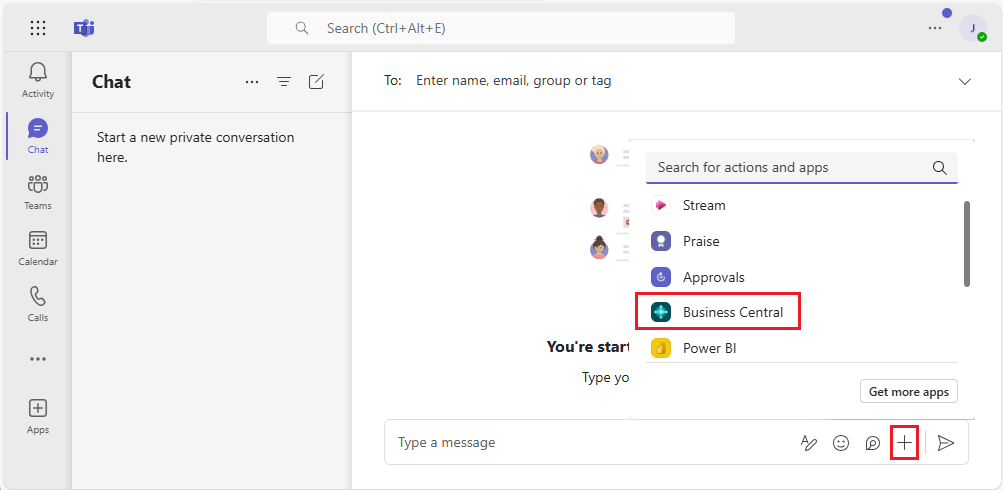
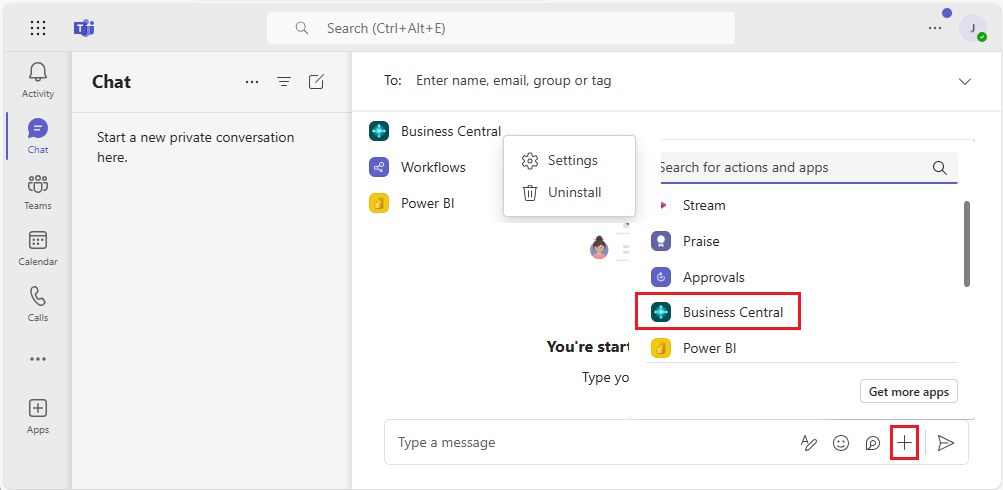
updtes

diff --git a/business-central/admin-teams-troubleshooting.md b/business-central/admin-teams-troubleshooting.md
@@ -5,7 +5,7 @@ author: jswymer
 ms.topic: get-started
 ms.devlang: al
 ms.search.keywords: Teams, MS Teams, Microsoft Teams, Skype, Link, Microsoft 365, collaborate, collaboration, teamwork, troubleshooting, errors
-ms.date: 09/19/2023
+ms.date: 08/14/2024
 ms.author: jswymer
 ms.service: dynamics-365-business-central
 ms.reviewer: jswymer
@@ -31,9 +31,6 @@ You must first sign in to reach your settings. To sign into the app, either past
 
 After you change the company on the **Settings** page, you might notice that the command box drop-down indicates you're still searching the previous company. This issue happens when you open the **Settings** page directly from the command box. In this case, the company was successfully changed, and you'll in fact search the company you switched to. The problem is that the command box drop-down just hasn't been updated yet. Close or unpin [!INCLUDE [prod_short.md](includes/prod_short.md)] from the command box, and then open the app again to ensure that the drop-down accurately reflects the company you're searching for. 
 
-
-<!--When you change company from the **Settings** page that you reach from the command box, returning to the command box drop-down continues to show the previous company even though the company was successfully changed. For the drop-down accurately reflect the company you'll search in, you must close or unpin [!INCLUDE [prod_short.md](includes/prod_short.md)] from the command box and then find it again.-->
-
 ## "Something went wrong" error when searching for contacts
 
 You may experience this error when you search in a company that hasn't been initialized or is in an unresponsive state. For example, you can't search in a new trial company that hasn't yet accepted the terms of use. To resolve this issue, try to sign in to the [!INCLUDE [prod_short.md](includes/prod_short.md)] Web client, and act on or dismiss any initial dialogs that appear.
@@ -48,10 +45,10 @@ If you're experiencing this problem, here are a few things to try:
 
 1. First, make sure that the [!INCLUDE [prod_short](includes/prod_short.md)] app for Teams is installed.
 
-    To check, sign in to the Teams desktop app or Teams in the browser. Then, on the left side, select **Apps**, and search for **[!INCLUDE [prod_short](includes/prod_short.md)]**. When you find the **[!INCLUDE [prod_short](includes/prod_short.md)]** app, select it to open the app details page. If the **Add** button is shown, then the [!INCLUDE [prod_short](includes/prod_short.md)] app isn't installed. For more information about how to install the app, see [Install the [!INCLUDE [prod_short](includes/prod_short.md)] App for Microsoft Teams](across-install-app-for-teams.md).
+    To check, sign in to the Teams desktop app or Teams in the browser. Then, on the left side, select **Apps**, and search for **[!INCLUDE [prod_short](includes/prod_short.md)]**. When you find the **[!INCLUDE [prod_short](includes/prod_short.md)]** app, select it to open the app details page. If the **Add** button is shown, then the [!INCLUDE [prod_short](includes/prod_short.md)] app isn't installed. Learn more in [Install the [!INCLUDE [prod_short](includes/prod_short.md)] App for Microsoft Teams](across-install-app-for-teams.md).
 
     > [!NOTE]
-    > Guest users can't immediately install apps. For more information about guest users, see our [FAQ about collaborating with guests](teams-faq.md?tabs=collaborating#language). 
+    > Guest users can't immediately install apps. Learn more in [FAQ about collaborating with guests](teams-faq.md?tabs=collaborating#language). 
 
 2. Next, check that you've signed in with the correct identity.
 
@@ -59,7 +56,7 @@ If you're experiencing this problem, here are a few things to try:
 
 3. Make sure codeunit 2718 **Page Summary Provider** is published as a web service.
 
-    Teams connects to [!INCLUDE [prod_short](includes/prod_short.md)] using an endpoint to this codeunit on the [!INCLUDE [prod_short](includes/prod_short.md)] service. For information about publishing web services, see [Publish a Web Service](across-how-publish-web-service.md).
+    Teams connects to [!INCLUDE [prod_short](includes/prod_short.md)] using an endpoint to this codeunit on the [!INCLUDE [prod_short](includes/prod_short.md)] service. Learn more in [Publish a Web Service](across-how-publish-web-service.md).
 
 4. Your organization may also restrict you from pasting links that expand into cards. Contact your administrator to understand the Teams organizational policies that may apply to you.
 
@@ -67,7 +64,7 @@ If you're experiencing this problem, here are a few things to try:
 
 A link won't expand into a card in the following situations:
 
-- The link targets a page that (at a technical level) isn't connected to a source table in [!INCLUDE [prod_short](includes/prod_short.md)]. You can check whether a page has a source table by using the page inspection pane in the Web client in [!INCLUDE [prod_short](includes/prod_short.md)]. For more information about page inspection, see [Inspecting Pages](across-inspect-page.md).
+- The link targets a page that (at a technical level) isn't connected to a source table in [!INCLUDE [prod_short](includes/prod_short.md)]. You can check whether a page has a source table by using the page inspection pane in the Web client in [!INCLUDE [prod_short](includes/prod_short.md)]. Learn more about page inspection Learn more in [Inspecting Pages](across-inspect-page.md).
 - Teams doesn't support link previews in some of its features. For example, when you pop out a chat, or you're a guest to another organization.
 - Network issues cause Teams to silently abandon trying to display the card after 15 seconds, for example.
 - Teams may not expand the link if you've already pasted a link into the same message compose box and deleted the card.
@@ -83,7 +80,7 @@ For example:
 
 `https://businesscentral.dynamics.com/?environmentname=Production&company=CRONUS%20USA%2C%20Inc.&page=21&dc=0&bookmark=21%3bEgAAAAJ7BTEAMAAwADAAMA%3d%3d`
 
-For technical details about [!INCLUDE [prod_short](includes/prod_short.md)] URLs, see [Web Client URL](/dynamics365/business-central/dev-itpro/developer/devenv-web-client-urls) in the [!INCLUDE [prod_short](includes/prod_short.md)] Developer and IT Pro Help.
+Learn more about [!INCLUDE [prod_short](includes/prod_short.md)] URLs in [Web Client URL](/dynamics365/business-central/dev-itpro/developer/devenv-web-client-urls) in the [!INCLUDE [prod_short](includes/prod_short.md)] Developer and IT Pro Help.
 
 ## The details window opens, but shows an error before details are shown
 
@@ -93,15 +90,15 @@ This problem can be caused by a couple of things: lack of permissions in [!INCLU
 
     To view details for a card, [!INCLUDE [prod_short](includes/prod_short.md)] checks your license and permissions to view that specific record and page in the specific company and environment. If you aren't authorized for any of these things, standard [!INCLUDE [prod_short](includes/prod_short.md)] error messages about permissions appear in the details window. 
 
-    For more information about permissions, see [Assign Permissions to Users and Groups](ui-define-granular-permissions.md)
+    Learn more in [Assign Permissions to Users and Groups](ui-define-granular-permissions.md).
 
 2. Check your browser settings if using Teams in the browser.
 
-    - Your browser's pop-up blocker must be either turned off or set to allow pop-ups from the *businesscentral.dynamics.com* or *bc.dynamics.com* domains. For information about allowing pop-ups for [!INCLUDE [prod_short](includes/prod_short.md)], see [Setting Up Your Browser](across-browser-settings.md#popup).
+    - Your browser's pop-up blocker must be either turned off or set to allow pop-ups from the *businesscentral.dynamics.com* or *bc.dynamics.com* domains. Learn more in about allowing pop-ups for [!INCLUDE [prod_short](includes/prod_short.md)] in [Setting Up Your Browser](across-browser-settings.md#popup).
     - Your browser must have access to local browser storage for cookies and preferences as you work.
     - Avoid using guest or private browsing unless necessary, because they discard or block certain content in some browsers.
 
-    For more information about minimum browser requirements, see [Minimum Requirements for Using [!INCLUDE [prod_short](includes/prod_short.md)]](product-requirements.md#browsers) 
+   Learn more about minimum browser requirements in [Minimum Requirements for Using [!INCLUDE [prod_short](includes/prod_short.md)]](product-requirements.md#browsers).
 
 ## I'm having problems with the camera or location in Teams
 
@@ -111,9 +108,9 @@ When using [!INCLUDE [prod_short](includes/prod_short.md)] features in the detai
 
 - For Teams for iOS or Android, make sure that your device settings allow access to camera and location for the Teams mobile app. 
 
-For help about changing these settings, see [My camera isn't working in Teams](https://support.microsoft.com/office/my-camera-isn-t-working-in-teams-9581983b-c6f9-40e3-b0d8-122857972ade?ns=msftteams&version=16&ui=en-us&rs=en-us&ad=us) on Microsoft Support.
+Learn more about changing these settings at [My camera isn't working in Teams](https://support.microsoft.com/office/my-camera-isn-t-working-in-teams-9581983b-c6f9-40e3-b0d8-122857972ade?ns=msftteams&version=16&ui=en-us&rs=en-us&ad=us) on Microsoft Support.
 
-The [!INCLUDE [prod_short](includes/prod_short.md)] app doesn't support location in the Teams desktop app. For more information about location, see the [Teams FAQ](teams-faq.md#location).
+The [!INCLUDE [prod_short](includes/prod_short.md)] app doesn't support location in the Teams desktop app. Learn more in [Teams FAQ](teams-faq.md#location).
 
 Some browsers, such as the new Microsoft Edge, allow you to choose which device camera to use when your device supports multiple cameras. 
 
@@ -121,11 +118,11 @@ Some browsers, such as the new Microsoft Edge, allow you to choose which device 
 
 For cards and card details to display consistently in the same language in Teams, the language of your Teams client and the language you use in [!INCLUDE [prod_short](includes/prod_short.md)] Web client must match.
 
-- To learn about changing the language in Teams, see [Change settings in Teams](https://support.microsoft.com/en-us/office/change-settings-in-teams-b506e8f1-1a96-4cf1-8c6b-b6ed4f424bc7) on Microsoft Support. 
+- Learn more about changing the language in Teams in [Change settings in Teams](https://support.microsoft.com/en-us/office/change-settings-in-teams-b506e8f1-1a96-4cf1-8c6b-b6ed4f424bc7) on Microsoft Support. 
 
-- To learn about changing the language in [!INCLUDE [prod_short](includes/prod_short.md)], see [Change Basic Settings - Language](ui-change-basic-settings.md#language).
+- Learn more about changing the language in [!INCLUDE [prod_short](includes/prod_short.md)] [Change Basic Settings - Language](ui-change-basic-settings.md#language).
 
-For more information on how languages work between Teams and [!INCLUDE [prod_short](includes/prod_short.md)], see [Teams FAQ](teams-faq.md#language).
+Learn more about how languages work between Teams and [!INCLUDE [prod_short](includes/prod_short.md)] in [Teams FAQ](teams-faq.md#language).
 
 ## I edited a field in the details window, but my change wasn't saved
 
@@ -173,8 +170,7 @@ This problem is because you don’t have the BC app for Teams installed. Only th
 
 This problem is likely because you shared a list view that is a personal view. In this case, work with your administrator to create either role-specific list views that covers the different roles in the channel/chat, or create this view for the whole organization so that everyone can get a consistent view.
 
-
-## See also
+## Related information
 
 [[!INCLUDE [prod_short](includes/prod_short.md)] and Microsoft Teams Integration Overview](across-teams-overview.md)  
 [Install the [!INCLUDE [prod_short](includes/prod_short.md)] App for Microsoft Teams](across-install-app-for-teams.md)  

diff --git a/business-central/admin-teams-integration.md b/business-central/admin-teams-integration.md
@@ -4,7 +4,7 @@ description: Manage Business Central integration with Microsoft Teams.
 author: jswymer
 ms.topic: overview
 ms.search.keywords: Teams, MS Teams, Microsoft Teams, Skype, Link, Microsoft 365, collaborate, collaboration, teamwork
-ms.date: 02/03/2023
+ms.date: 0814/2024
 ms.author: jswymer
 ms.reviewer: jswymer
 ms.custom: bap-template
@@ -40,13 +40,13 @@ This section describes the minimum requirements for the [!INCLUDE [prod_short](i
 
 - Allow URL previews
 
-    **Allow URL previews** policy setting must be turned on. Otherwise, a card can't be generated for [!INCLUDE [prod_short](includes/prod_short.md)] links pasted into a Teams conversation. For more information about this setting, see [Manage messaging policies in Teams](/microsoftteams/messaging-policies-in-teams).
+    **Allow URL previews** policy setting must be turned on. Otherwise, a card can't be generated for [!INCLUDE [prod_short](includes/prod_short.md)] links pasted into a Teams conversation. Learn more about this setting in [Manage messaging policies in Teams](/microsoftteams/messaging-policies-in-teams).
 
 ### Managing the [!INCLUDE [prod_short](includes/prod_short.md)] app (optional)
 
 As a Teams administrator, you can manage all apps for your organization, including the [!INCLUDE [prod_short](includes/prod_short.md)] app. You can approve or install the [!INCLUDE [prod_short](includes/prod_short.md)] app for your organization, block user's from installing the app, and more.
 
-For more information, see the following articles in the Microsoft Teams documentation:
+Learn more in the Microsoft Teams documentation at:
 
 - [Manage your apps in the Microsoft Teams admin center](/MicrosoftTeams/manage-apps)
 - [Manage app setup policies in Microsoft Teams](/microsoftteams/teams-app-setup-policies)
@@ -61,7 +61,7 @@ For more information, see the following articles in the Microsoft Teams document
 
 - Codeunit **2718 Page Summary Provider** is published as a web service:
 
-    This codeunit is published as a web service by default. The codeunit is part of the [!INCLUDE [prod_short](includes/prod_short.md)] system application. It's used to get the field data for a [!INCLUDE [prod_short](includes/prod_short.md)] page added to a Teams conversation. For information about publishing web services, see [Publish a Web Service](across-how-publish-web-service.md).
+    This codeunit is published as a web service by default. The codeunit is part of the [!INCLUDE [prod_short](includes/prod_short.md)] system application. It's used to get the field data for a [!INCLUDE [prod_short](includes/prod_short.md)] page added to a Teams conversation. Learn more about publishing web services in [Publish a Web Service](across-how-publish-web-service.md).
 
 - <a name="permissions"></a>User permissions:
 
@@ -73,7 +73,7 @@ For more information, see the following articles in the Microsoft Teams document
     - To view more details for a card or open the record in [!INCLUDE [prod_short](includes/prod_short.md)], users must have read permission on the page and its data.
     - To change data, user's need modify permissions.
     
-    For information about permissions, see [Assign Permissions to Users and Groups](ui-define-granular-permissions.md).
+    Learn more in [Assign Permissions to Users and Groups](ui-define-granular-permissions.md).
 
 ## Installing the Business Central app by using Centralized Deployment
 
@@ -93,7 +93,7 @@ The Microsoft Teams admin center is where you configure Teams app setup policies
        Business Central should now appear under **Installed apps** for the policy.
     5. Configure more settings as needed, then choose **Save**.
 
-    For more information about setup policies in Teams, see [Manage app setup policies in Microsoft Teams](/MicrosoftTeams/teams-app-setup-policies) in the Teams documentation.
+    Learn more in [Manage app setup policies in Microsoft Teams](/MicrosoftTeams/teams-app-setup-policies) in the Teams documentation.
 4. Go back to **Teams App Centralized Deployment** in Business Central and select **Done**.
 
 > [!IMPORTANT]
@@ -107,8 +107,8 @@ Microsoft Teams provides extensive controls for compliance and management of sen
 
 After a card is sent to a chat, the card and the fields shown on the card are copied to Teams. This information is subject to the Teams policies for your organization, such as data retention policies. When displaying card details, none of the data in the details window is stored in Teams. The data remains stored in [!INCLUDE [prod_short](includes/prod_short.md)] and will only be retrieved by Teams when the user chooses to view the details. 
 
-- To learn more about where Teams stores that data, see [Location of data in Microsoft Teams](/microsoftteams/location-of-data-in-teams).
-- To learn more about retention policies in Teams, see [Retention policies in Microsoft Teams](/microsoftteams/retention-policies).
+- Learn more about where Teams stores that data at [Location of data in Microsoft Teams](/microsoftteams/location-of-data-in-teams).
+- Learn more about retention policies in Teams at [Retention policies in Microsoft Teams](/microsoftteams/retention-policies).
 
 ### Restricting sharing of cards 
 
@@ -116,15 +116,15 @@ You prevent specific users or groups from sending cards to chats or channels by 
 
 You can also use information barriers to prevent individuals or groups from communicating with each other. To learn more, see [Information barriers in Microsoft Teams](/microsoftteams/information-barriers-in-teams).
 
-Data loss prevention features in the Microsoft 365 Security & Compliance Center can't be applied specifically to cards. But they can be applied to the chat messages that contain the cards. <!-- To track upcoming advanced features that include enabling DLP for cards, see [https://www.microsoft.com/en-us/microsoft-365/roadmap?featureid=67093](https://www.microsoft.com/en-us/microsoft-365/roadmap?featureid=67093).-->
+Data loss prevention features in the Microsoft 365 Security & Compliance Center can't be applied specifically to cards. But they can be applied to the chat messages that contain the cards.
 
 ### Responding to data requests
 
-You allow team members and team owners to delete messages that contain sensitive cards by setting up messaging policies, like: **Owners can delete sent messages** and **Users can delete sent messages**. For more information, see [Manage messaging policies in Teams](/microsoftteams/messaging-policies-in-teams).
+You allow team members and team owners to delete messages that contain sensitive cards by setting up messaging policies, like: **Owners can delete sent messages** and **Users can delete sent messages**. Learn more at [Manage messaging policies in Teams](/microsoftteams/messaging-policies-in-teams).
 
 Content search and eDiscovery compliance features in the Microsoft 365 Security & Compliance Center can also be applied to cards.
 
-Because card data in Teams is a copy of data in [!INCLUDE [prod_short](includes/prod_short.md)], you can also use [!INCLUDE [prod_short](includes/prod_short.md)] features to export a customer’s data if requested. For more information about privacy in [!INCLUDE [prod_short](includes/prod_short.md)], see [Privacy FAQ for Business Central Customers](/dynamics365/business-central/dev-itpro/security/privacyfaq).
+Because card data in Teams is a copy of data in [!INCLUDE [prod_short](includes/prod_short.md)], you can also use [!INCLUDE [prod_short](includes/prod_short.md)] features to export a customer’s data if requested. Learn more  about privacy in [!INCLUDE [prod_short](includes/prod_short.md)] in [Privacy FAQ for Business Central Customers](/dynamics365/business-central/dev-itpro/security/privacyfaq).
 
 ## Show or hide record data on cards
 
@@ -140,12 +140,12 @@ You configure the setting per environment. So when you turn the record summary o
 
    > [!TIP]
    > To switch the environment, select <kbd>Ctrl</kbd>+<kbd>O</kbd>.
-2. Choose the ![Magnifying glass that opens the Tell Me feature.](media/ui-search/search_small.png "Tell me what you want to do") icon, enter **Card Settings**, and then choose the related link. <!--Or, select [here](https://businesscentral.dynamics.com/?page=1833) to open the page directly.-->
+2. Choose the ![Magnifying glass that opens the Tell Me feature.](media/ui-search/search_small.png "Tell me what you want to do") icon, enter **Card Settings**, and then choose the related link.
 3. Read the information on the **Card Settings**, then choose **Next** when ready.
 4. On the **Data Visibility** page, turn on the **Show record summary** switch to display data on the cards or off to hide the data.
 5. Select **Next** and follow the instructions to complete the setup guide.
 
-## See Also
+## Related information
 
 [[!INCLUDE [prod_short](includes/prod_short.md)] and Microsoft Teams Integration Overview](across-teams-overview.md)  
 [Install the [!INCLUDE [prod_short](includes/prod_short.md)] App for Microsoft Teams](across-install-app-for-teams.md)  

diff --git a/business-central/across-teams-overview.md b/business-central/across-teams-overview.md
@@ -7,7 +7,7 @@ ms.reviewer: jswymer
 ms.service: dynamics-365-business-central
 ms.topic: overview
 ms.search.keywords: Teams, MS Teams, Microsoft Teams, Skype, Link, Microsoft 365, collaborate, collaboration, teamwork
-ms.date: 09/22/2022
+ms.date: 08/14/2024
 ms.custom: bap-template
 ---
 
@@ -33,7 +33,7 @@ You can also share contact details in a conversation. From there, participants h
 
  [![Look up Business Central contacts from Teams compose box.](media/teams-contacts-2.png)](media/teams-contacts-2.png#lightbox)
 
-For more information, see [Searching for Contacts from Microsoft Teams](across-search-contacts-teams.md).
+Learn more in [Searching for Contacts from Microsoft Teams](across-search-contacts-teams.md).
 
 ### Share records in conversations
 
@@ -43,7 +43,7 @@ Copy a link to any Business Central record and paste it into a Teams conversatio
 
 Once in the conversation, you and coworkers can view more details about the record, edit data, and take action - without leaving Teams.
 
-For more information, see [Share Records in Microsoft Teams](across-working-with-teams.md).
+Learn more in [Share Records in Microsoft Teams](across-working-with-teams.md).
 
 ### Share links from pages in Business Central to Teams
 
@@ -53,7 +53,7 @@ Directly from most collection and details pages in Business Central, you can use
 
 <!--![!The Share menu displayed on a card.](media/teams-share-link.png "The Share menu displayed on a card.")-->
 
-For more information, see [Share Records and Page Links in Microsoft Teams](across-working-with-teams.md#share-link).
+Learn more in [Share Records and Page Links in Microsoft Teams](across-working-with-teams.md#share-link).
 
 ### Add a Business Central tab to Teams channel or chat
 
@@ -61,7 +61,7 @@ With the Business Central app for Teams installed, you can add a tab in a channe
 
 ![Tabs in Teams](media/teams-tab-border-2.png)
 
-For more information, see [Add a Business Central tab in Teams](across-teams-tab.md).
+Learn more in [Add a Business Central tab in Teams](across-teams-tab.md).
 
 ## Get Started
 
@@ -70,13 +70,13 @@ For more information, see [Add a Business Central tab in Teams](across-teams-tab
     If you’re not sure whether you have an account, or if you don’t know your credentials for signing in, contact your company administrator to help you get started.
 
     > [!TIP]
-    > If your organization doesn't have a [!INCLUDE [prod_short](includes/prod_short.md)] subscription, you can sign up for a free trial. For more information, see [Sign up for a free Dynamics 365 Business Central trial](trial-signup.md).
+    > If your organization doesn't have a [!INCLUDE [prod_short](includes/prod_short.md)] subscription, you can sign up for a free trial. Learn more at [Sign up for a free Dynamics 365 Business Central trial](trial-signup.md).
 
 2. As an administrator, see [Managing Microsoft Teams Integration with Business Central](admin-teams-integration.md) for information about getting users set up to work with [!INCLUDE [prod_short](includes/prod_short.md)] and Teams.
 3. Install [!INCLUDE [prod_short](includes/prod_short.md)] app in Teams. See [Install the [!INCLUDE [prod_short](includes/prod_short.md)] App for Microsoft Teams](across-install-app-for-teams.md).
-4. Once the app is installed, you're ready to go. See [Searching for Customers, Vendors, and Other Contacts from Microsoft Teams](across-search-contacts-teams.md) and [Share Records in Microsoft Teams](across-working-with-teams.md).
+4. Once the app is installed, you're ready to go. Learn more in [Searching for Customers, Vendors, and Other Contacts from Microsoft Teams](across-search-contacts-teams.md) and [Share Records in Microsoft Teams](across-working-with-teams.md).
 
-## See Also
+## Related information
 
 [Teams FAQ](teams-faq.md)  
 [Troubleshooting Teams](admin-teams-troubleshooting.md)  

diff --git a/business-central/across-search-contacts-teams.md b/business-central/across-search-contacts-teams.md
@@ -24,7 +24,7 @@ ms.reviewer: jswymer
 ## Prerequisites
 
 - You have access to Microsoft Teams.
-- You've installed the [!INCLUDE [prod_short](includes/prod_short.md)] app in Teams. For more information, see [Install the [!INCLUDE [prod_short](includes/prod_short.md)] App for Microsoft Teams](across-install-app-for-teams.md)
+- You've installed the [!INCLUDE [prod_short](includes/prod_short.md)] app in Teams. Learn more in [Install the [!INCLUDE [prod_short](includes/prod_short.md)] App for Microsoft Teams](across-install-app-for-teams.md)
 - You've got a [!INCLUDE [prod_short](includes/prod_short.md)] account with access to contacts in at least one company.
 
 > [!NOTE]
@@ -49,7 +49,7 @@ The command box is at the top of every screen in Teams. It lets you search, take
 
 4. If you want to add the contact card into a conversation, go to the upper right corner of the card, select **... (More options)** > **Copy**. Then, paste the copy in the message compose box of a conversation.  
 
-Learn more about the Teams command box in [Teams - Use the command box](https://support.microsoft.com/en-us/office/use-the-command-box-13c4e429-7324-4886-b377-5dbed539193b).
+Learn more about the Teams command box at [Teams - Use the command box](https://support.microsoft.com/en-us/office/use-the-command-box-13c4e429-7324-4886-b377-5dbed539193b).
 
 ## Look up contacts from the message compose box
 
@@ -77,12 +77,12 @@ The contact card in Teams gives you a quick overview of the customer, vendor, or
 
 The **Details** button opens a window within Teams that displays more information about the contact, but not as much as you'd see in [!INCLUDE [prod_short](includes/prod_short.md)]. To see all the information about a contact in [!INCLUDE [prod_short](includes/prod_short.md)], select **Pop-out**.
 
-The contact card works just like cards for records, like items, customers, or sales orders. For more information about cards, see [View card details](across-working-with-teams.md#view-card-details).
+The contact card works just like cards for records, like items, customers, or sales orders. Learn more in [View card details](across-working-with-teams.md#view-card-details).
 
 > [!NOTE]
-> All participants in a Teams conversation will be able to view cards for Business Central contact that you submit to a conversation. But to view more details about records, by using the **Details** or **Pop out** buttons on a card, they'll need access to [!INCLUDE [prod_short](includes/prod_short.md)]. For more information, see [Managing Microsoft Teams Integration](admin-teams-integration.md#minimum-requirements-1).
+> All participants in a Teams conversation will be able to view cards for Business Central contact that you submit to a conversation. But to view more details about records, by using the **Details** or **Pop out** buttons on a card, they'll need access to [!INCLUDE [prod_short](includes/prod_short.md)]. Learn more in [Managing Microsoft Teams Integration](admin-teams-integration.md#minimum-requirements-1).
 
-## See also
+## Related information
 
 [Business Central and Microsoft Teams Integration Overview](across-teams-overview.md)  
 [Install the [!INCLUDE [prod_short](includes/prod_short.md)] App for Microsoft Teams](across-install-app-for-teams.md)  

diff --git a/business-central/across-teams-tab.md b/business-central/across-teams-tab.md
@@ -34,12 +34,12 @@ To add a [!INCLUDE [prod_short](includes/prod_short.md)] tab, the following requ
 
 - You have access to Microsoft Teams.
 - You have a [!INCLUDE [prod_short](includes/prod_short.md)] license.
-- You've installed the [!INCLUDE [prod_short](includes/prod_short.md)] app in Teams. For more information, see [Install the [!INCLUDE [prod_short](includes/prod_short.md)] App for Microsoft Teams](across-install-app-for-teams.md).
+- You've installed the [!INCLUDE [prod_short](includes/prod_short.md)] app in Teams. Learn more in [Install the [!INCLUDE [prod_short](includes/prod_short.md)] App for Microsoft Teams](across-install-app-for-teams.md).
 
 To view [!INCLUDE [prod_short](includes/prod_short.md)] tab that was added by another participant in the channel or chat, the following requirements must be met:
 
 - You have access to Microsoft Teams.
-- You have a [!INCLUDE [prod_short](includes/prod_short.md)] license or limited access to Business Central with a Microsoft 365 license only. For more information, see [Business Central Access with Microsoft 365 Licenses](admin-access-with-m365-license.md).
+- You have a [!INCLUDE [prod_short](includes/prod_short.md)] license or limited access to Business Central with a Microsoft 365 license only. Learn more in [Business Central Access with Microsoft 365 Licenses](admin-access-with-m365-license.md).
 - You've installed the [!INCLUDE [prod_short](includes/prod_short.md)] app in Teams.
 
 ## Add tab using recommended content
@@ -73,7 +73,7 @@ Another way to add a tab by using a link (URL) to the page that you want to show
 4. Go to [!INCLUDE [prod_short](includes/prod_short.md)], and open the page that you want to display in the tab.
 5. Copy the link to the page.
 
-   There are two ways to copy the link. The easiest and preferred way is to select **Share** ![Share icon in Business Central](media/share-icon.png) > **Copy Link**. The other way is to copy the entire URL from the browser's address bar. To learn more about this step, see [Sharing Business Central Records and Page Links](across-working-with-teams.md).
+   There are two ways to copy the link. The easiest and preferred way is to select **Share** ![Share icon in Business Central](media/share-icon.png) > **Copy Link**. The other way is to copy the entire URL from the browser's address bar. Learn more in [Sharing Business Central Records and Page Links](across-working-with-teams.md).
 
 6. Go back to Teams and paste the link in the **URL** box.
 7. In the **Tab name** box, enter a name that displays on the tab.
@@ -90,7 +90,7 @@ As for the content of a tab, you can modify the data, if you have permission. If
 
 You can also change your view of the page and its data, like sorting and switching the layout between list and tile views. When you make these kinds of changes, they won't affect what others see. They see what you originally posted, until they make similar changes themselves.
 
-## See also
+## Related information
 
 [Business Central and Microsoft Teams Integration Overview](across-teams-overview.md)  
 [Install the [!INCLUDE [prod_short](includes/prod_short.md)] App for Microsoft Teams](across-install-app-for-teams.md)  

diff --git a/business-central/across-teams-settings.md b/business-central/across-teams-settings.md
@@ -6,7 +6,7 @@ author: jswymer
 ms.topic: get-started
 ms.devlang: al
 ms.search.keywords: Teams, MS Teams, Microsoft Teams, Skype, Link, Microsoft 365, settings, search
-ms.date: 04/12/2021
+ms.date: 08/14/2024
 ms.author: jswymer
 ms.service: dynamics-365-business-central
 ms.reviewer: jswymer
@@ -20,15 +20,15 @@ The [!INCLUDE [prod_short](includes/prod_short.md)] app for Teams includes a **S
 
 There are two ways to open the **Settings** page: 1) from the message compose box or 2) from the command box.
 
-1. Beneath the message compose box, right-click the [!INCLUDE [prod_short](includes/prod_short.md)] app icon, then select **Settings**.
+1. Next to the message compose box, select **+**, right-click the [!INCLUDE [prod_short](includes/prod_short.md)] app icon, then select **Settings**.
 
-    ![Settings for Business Central from command box.](media/teams-settings-message-box.png)
+    ![Settings for Business Central from command box.](media/teams-settings-message-box-2.png)
 
-2. From the command box at the top, search for **@Business Central**, select **... (More options)**, then select **Settings**.
+2. From the command box at the top, search for **/Business Central** and then select the [!INCLUDE [prod_short](includes/prod_short.md)] app icon. Then, in the message that appears the under the **[search for business contacts]** box, select **... (More options)** and then **Settings**. If the message isn't displayed, click the **[search for business contacts]** box.
 
-   ![Settings for Business Central from message box.](media/teams-settings-command-box.png)
+   ![Settings for Business Central from message box.](media/teams-settings-command-box-2.png)
 
-## See Also
+## Related information
 
 [Business Central and Microsoft Teams Integration Overview](across-teams-overview.md)  
 [Install the [!INCLUDE [prod_short](includes/prod_short.md)] App for Microsoft Teams](across-install-app-for-teams.md)  
